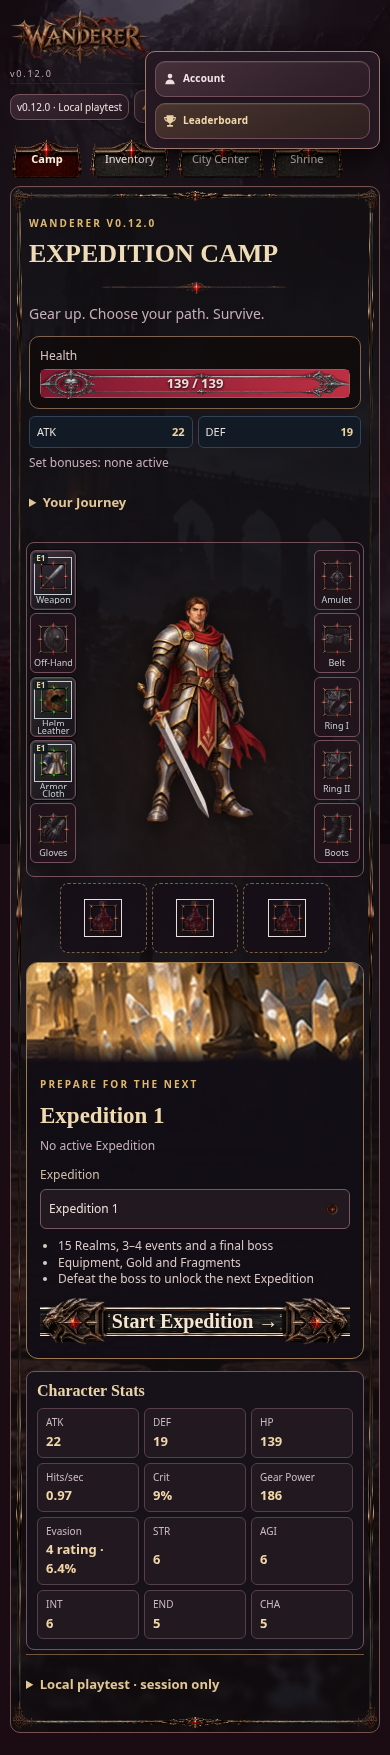
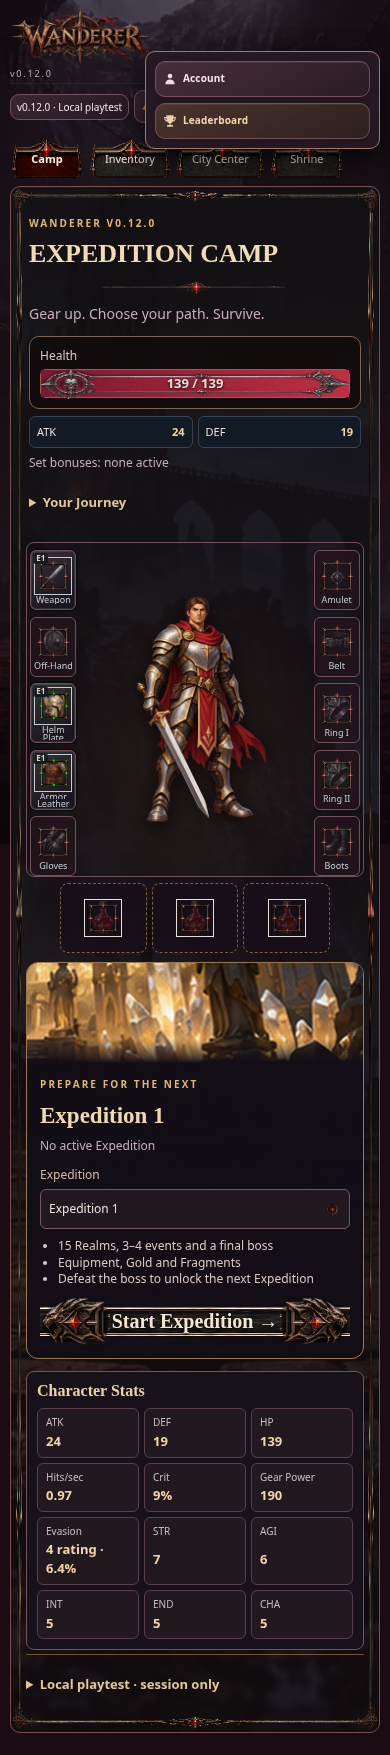
docs(ui): finalize UI.5 audit and slot fix

Changed region(s): [[0.8, 0.3385, 0.9231, 0.4923], [0.0615, 0.3385, 0.1846, 0.4923]]

diff --git a/online/v012-phase1.css b/online/v012-phase1.css
@@ -244,15 +244,15 @@
 .phase3IntegratedPreview :is(.phase3CampGrid,.phase3PreparationLayout,.phase3BagInventory,.equipmentLayout) .equipmentLoadout .paper .model{position:absolute;inset:2% 18% 2%;width:64%;height:96%;object-fit:contain;object-position:center;mask-image:none;opacity:1}
 .phase3IntegratedPreview :is(.phase3CampGrid,.phase3PreparationLayout,.phase3BagInventory,.equipmentLayout) .equipmentLoadout .paper .slotTile{position:absolute;width:72px;height:82px;left:auto;right:auto}
 .phase3IntegratedPreview :is(.phase3CampGrid,.phase3PreparationLayout,.phase3BagInventory,.equipmentLayout) .equipmentLoadout .paper .slotTile[data-slot="weapon"]{left:1%!important;right:auto!important;top:2%!important}
-.phase3IntegratedPreview :is(.phase3CampGrid,.phase3PreparationLayout,.phase3BagInventory,.equipmentLayout) .equipmentLoadout .paper .slotTile[data-slot="offhand"]{left:1%!important;right:auto!important;top:21%!important}
-.phase3IntegratedPreview :is(.phase3CampGrid,.phase3PreparationLayout,.phase3BagInventory,.equipmentLayout) .equipmentLoadout .paper .slotTile[data-slot="helm"]{left:1%!important;right:auto!important;top:40%!important}
-.phase3IntegratedPreview :is(.phase3CampGrid,.phase3PreparationLayout,.phase3BagInventory,.equipmentLayout) .equipmentLoadout .paper .slotTile[data-slot="armor"]{left:1%!important;right:auto!important;top:59%!important}
-.phase3IntegratedPreview :is(.phase3CampGrid,.phase3PreparationLayout,.phase3BagInventory,.equipmentLayout) .equipmentLoadout .paper .slotTile[data-slot="gloves"]{left:1%!important;right:auto!important;top:78%!important}
+.phase3IntegratedPreview :is(.phase3CampGrid,.phase3PreparationLayout,.phase3BagInventory,.equipmentLayout) .equipmentLoadout .paper .slotTile[data-slot="offhand"]{left:1%!important;right:auto!important;top:22%!important}
+.phase3IntegratedPreview :is(.phase3CampGrid,.phase3PreparationLayout,.phase3BagInventory,.equipmentLayout) .equipmentLoadout .paper .slotTile[data-slot="helm"]{left:1%!important;right:auto!important;top:42%!important}
+.phase3IntegratedPreview :is(.phase3CampGrid,.phase3PreparationLayout,.phase3BagInventory,.equipmentLayout) .equipmentLoadout .paper .slotTile[data-slot="armor"]{left:1%!important;right:auto!important;top:62%!important}
+.phase3IntegratedPreview :is(.phase3CampGrid,.phase3PreparationLayout,.phase3BagInventory,.equipmentLayout) .equipmentLoadout .paper .slotTile[data-slot="gloves"]{left:1%!important;right:auto!important;top:82%!important}
 .phase3IntegratedPreview :is(.phase3CampGrid,.phase3PreparationLayout,.phase3BagInventory,.equipmentLayout) .equipmentLoadout .paper .slotTile[data-slot="amulet"]{right:1%!important;left:auto!important;top:2%!important}
-.phase3IntegratedPreview :is(.phase3CampGrid,.phase3PreparationLayout,.phase3BagInventory,.equipmentLayout) .equipmentLoadout .paper .slotTile[data-slot="belt"]{right:1%!important;left:auto!important;top:21%!important}
-.phase3IntegratedPreview :is(.phase3CampGrid,.phase3PreparationLayout,.phase3BagInventory,.equipmentLayout) .equipmentLoadout .paper .slotTile[data-slot="ring1"]{right:1%!important;left:auto!important;top:40%!important}
-.phase3IntegratedPreview :is(.phase3CampGrid,.phase3PreparationLayout,.phase3BagInventory,.equipmentLayout) .equipmentLoadout .paper .slotTile[data-slot="ring2"]{right:1%!important;left:auto!important;top:59%!important}
-.phase3IntegratedPreview :is(.phase3CampGrid,.phase3PreparationLayout,.phase3BagInventory,.equipmentLayout) .equipmentLoadout .paper .slotTile[data-slot="boots"]{right:1%!important;left:auto!important;top:78%!important}
+.phase3IntegratedPreview :is(.phase3CampGrid,.phase3PreparationLayout,.phase3BagInventory,.equipmentLayout) .equipmentLoadout .paper .slotTile[data-slot="belt"]{right:1%!important;left:auto!important;top:22%!important}
+.phase3IntegratedPreview :is(.phase3CampGrid,.phase3PreparationLayout,.phase3BagInventory,.equipmentLayout) .equipmentLoadout .paper .slotTile[data-slot="ring1"]{right:1%!important;left:auto!important;top:42%!important}
+.phase3IntegratedPreview :is(.phase3CampGrid,.phase3PreparationLayout,.phase3BagInventory,.equipmentLayout) .equipmentLoadout .paper .slotTile[data-slot="ring2"]{right:1%!important;left:auto!important;top:62%!important}
+.phase3IntegratedPreview :is(.phase3CampGrid,.phase3PreparationLayout,.phase3BagInventory,.equipmentLayout) .equipmentLoadout .paper .slotTile[data-slot="boots"]{right:1%!important;left:auto!important;top:82%!important}
 .phase3Bag .phase3TreasureSymbol{display:block;font-size:26px;color:#dfba76;text-shadow:0 2px 8px #000}
 @media(max-width:600px){.phase3IntegratedPreview :is(.phase3CampGrid,.phase3PreparationLayout,.phase3BagInventory,.equipmentLayout) .equipmentLoadout .paper{height:500px;min-height:500px}.phase3IntegratedPreview :is(.phase3CampGrid,.phase3PreparationLayout,.phase3BagInventory,.equipmentLayout) .equipmentLoadout .paper .slotTile{width:56px;height:76px}}
 

diff --git a/docs/v012-ui-final-audit.md b/docs/v012-ui-final-audit.md
@@ -2,77 +2,66 @@
 
 Data: 22 outubro 2026
 Branch: `development`
-UI.4 auditada: `4f7b12d0bb8cf603517fe8f2c32d8b0530437cb3`
-Estado: **PARTIAL — integração em `main` não recomendada até à revalidação dos fluxos de persistência e do teste de geometria mobile.**
+Estado: **PARTIAL — regressões Chromium resolvidas; integração em `main` fica NO-GO até validar Safari nos fluxos UI.4e e restantes ecrãs.**
 
 ## Estado das fases
 
-| Fase | Estado observado |
-|---|---|
-| UI.0 — correções críticas | Publicada; regressão Chromium 6/6 PASS |
-| UI.1 — Camp e Inventory | Publicada; regressão Chromium 6/6 PASS |
-| UI.2 — Combat e Between Realms | Publicada; regressão Chromium 5/5 PASS |
-| UI.3 — City Center, affinities e Extraction | Publicada; regressão Chromium 6/6 PASS |
-| UI.4 — UI Kit e polimento | Publicada; regressão Chromium 6/6 PASS; moldura 9-slice carregada |
-| C.3 — treasures | Browser regression em 390px e 1280px PASS |
-
-## Auditoria visual
-
-As capturas recentes mostram Camp, Inventory, Merchant, Extraction, Combat, Between Realms, Blacksmith, Apothecary, affinities, passivos e eventos. Os testes UI.0–UI.4 cobrem 1440×900, 1280×720, 1024×768, 768×1024, 390×844 e 360×800, conforme a fase. Não houve scroll horizontal nos fluxos cobertos. A UI.2 isolada usa cinco larguras e ainda não foi repetida em 1440px.
-
-| Ecrã | Capturas atuais |
-|---|---|
-| Camp / Inventory | [Camp 1280](ui4-screenshots/camp-after-1280.png), [Camp 390](ui4-screenshots/camp-after-390.png), [Inventory 1280](ui4-screenshots/inventory-after-1280.png), [Inventory 390](ui4-screenshots/inventory-after-390.png) |
-| City Center | [Blacksmith 1280](ui5-screenshots/wanderer-ui3-blacksmith-1280.png), [Merchant 1280](ui4-screenshots/merchant-after-1280.png), [Merchant 390](ui4-screenshots/merchant-after-390.png), [Apothecary 390](ui5-screenshots/wanderer-ui3-apothecary-390.png) |
-| Shrine / affinities | [Affinities 1280](ui5-screenshots/wanderer-ui3-affinities-1280.png), [Affinities 390](ui5-screenshots/wanderer-ui3-affinities-390.png) |
-| Combat / Between Realms | [Combat 1280](ui5-screenshots/wanderer-ui2-combat-1280.png), [Combat 390](ui5-screenshots/wanderer-ui2-combat-390.png), [Between 1280](ui5-screenshots/wanderer-ui2-between-1280.png), [Between 390](ui5-screenshots/wanderer-ui2-between-390.png) |
-| Passivos / eventos | [Passivos 390](ui5-screenshots/passives-390.png), [Evento 1280](ui5-screenshots/events-1280.png), [Evento 390](ui5-screenshots/events-390.png) |
-| Extraction | [Extraction 1280](ui4-screenshots/extraction-after-1280.png), [Extraction 390](ui4-screenshots/extraction-after-390.png) |
-
-As capturas foram feitas com Chromium e estado local sintético. Algumas capturas mobile incluem o menu de conta aberto pelo fixture; ele não bloqueou as verificações de layout, mas essas imagens não representam uma composição de menu fechado.
-
-## Funcionalidade e testes
-
-| Verificação | Resultado |
-|---|---|
-| Regressões browser UI.0, UI.1, UI.2, UI.3, UI.4 | PASS: 6/6, 6/6, 5/5, 6/6, 6/6 |
-| C.3 treasures: imagem, Stash, Sell All, resumo | PASS: 390px e 1280px |
-| Merchant: 4 ofertas/categoria, alternância sem stock novo, Compare, Buy, Restock | PASS em UI.3 browser regression |
-| Blacksmith Craft / Apothecary Buy e Reroll / afinidades Blood e Magic / extração e Return to Camp | PASS em regressões UI.3 |
-| Save unit tests e migração/serialização | PASS na suíte unitária |
-| `npm test` com rede permitida | 24/27 PASS; três falhas em harnesses DOM descritas abaixo |
-| Browser Save/Load | PARTIAL: `v012-save-browser.cjs` termina em `choice` em vez de `finished` após 200 passos; `v0120-persistence-browser.cjs` excede timeout ao aguardar a segunda vitória sintética |
-| Browser de equipamento | FAIL em 390px: as caixas de slots vizinhos cruzam-se por cerca de 0,375px vertical; em 1280px o teste não foi alcançado nesta execução |
-| Browser de eventos | FAIL no teste legado: espera capacidade 6, mas a Bag atual tem 12; com a expectativa atualizada, o harness pára em `choice` no Realm 2 |
-| Browser `v012-phase3` | FAIL: timeout à espera de `#phase5ExitResult` na corrida sintética |
-| Safari / WebKit | **Pendente**: WebKit do Playwright não está instalado neste ambiente Linux |
-
-Falhas da suíte Node (harness, sem evidência de regressão visual):
-
-- `v012-complete-flow.test.cjs`: `window is not defined` durante `markAllAsSeen` → `renderStash`.
-- `v012-phase-c3-treasures.test.cjs`: `arena.before is not a function` ao renderizar o combate simulado.
-- `v0120-equipment.test.cjs`: `window is not defined` no caminho de salvamento após `salvage`.
-
-O teste `private-preview.test.mjs` falhou quando executado sem permissão de loopback e passou quando repetido com rede local permitida. O teste de eventos existente espera a capacidade antiga da Bag; a capacidade atual de 12 é requisito do produto.
-
-## Diferenças face à especificação
-
-- A tab **Shrine** existente continua a ser o altar de Runas. A escolha inicial de affinity é apresentada após Start Expedition, onde o fluxo atual a cria; não foi criada uma segunda seleção.
-- O City Center mantém placeholders/silhuetas de NPC porque não há artwork de NPC aprovado nos assets disponíveis.
-- O Blacksmith usa os painéis e âncoras Forge/Reinforcement da UI.3; os dois blocos permanecem no mesmo documento.
-- As capturas antigas não cobrem todos os estados de modal em cada viewport. A inspeção visual completa em Safari não foi possível.
-
-## Problemas por prioridade
-
-| Prioridade | Problema | Impacto |
+| Fase | Estado | Evidência |
 |---|---|---|
-| P0 | Nenhum problema crítico de UI confirmado nesta auditoria | — |
-| P1 | Persistência em browser não ficou demonstrada pelos harnesses sintéticos; os fluxos de Save/Load falham por stalls/timeouts | Revalidar com fixture atualizado antes de integração em `main` |
-| P2 | Teste de geometria reporta interseções de cerca de 0,375px entre slots verticais no Equipment mobile | Não bloqueia interação visível, mas convém ajustar e repetir o teste |
-| P2 | Harness de eventos usa expectativa Bag 6 e não conclui o ciclo no Realm 2 com capacidade 12 | Atualizar harness; as regras/eventos unitários passam |
-| P2 | Três testes unitários dependem de `window`/`Element.before` sem DOM completo | Corrigir mocks ou executar em ambiente DOM/browser |
-| P2 | Safari não foi validado; artwork de NPC continua ausente | Validar em Mac e integrar asset aprovado quando existir |
+| UI.0–UI.3 | PASS anterior | Regressões e capturas de cada fase; sem novas falhas reproduzidas nesta auditoria. |
+| UI.4 | PASS Chromium anterior | UI Kit e regressões da fase aprovadas; sem falhas novas. |
+| UI.4d | PASS | Chromium UI.4d passou. O utilizador informa que validou UI.4d manualmente em Safari; registado como validação manual do utilizador, não como teste executado por esta auditoria. |
+| UI.4e | PASS Chromium; Safari pendente | Frames Common–Legendary, slots e poções, compra, uso e persistência passaram nos viewports suportados. |
+| C.3 | PASS | Browser C.3 passou em 390 e 1280 px; os seis treasures renderizam e Sell All preserva o total. |
+
+## Resultados por área
+
+| Área | Resultado | Observações |
+|---|---|---|
+| Camp, Equipment e Inventory | **PASS** | Sem colisão de slots em 360, 390, 768, 1280 e 1440 px; dez slots de equipamento e três slots de poções. |
+| Frames de raridade e poções | **PASS Chromium** | Cinco raridades, frames quadrados, slots vazios/parciais/completos, seleção, remoção, consumo, compra no Apothecary e save/reload. |
+| City Center / Merchant | **PASS** | Weapons, Armor e Accessories filtram o stock real; quatro ofertas por categoria; alternância, Compare, Buy e restock mantidos. |
+| Forge / Apothecary | **PASS** | Craft, compra e integração do stock de poções com o Stash passaram nos fluxos browser/unitários. |
+| Expedition / Between Realms / Bag | **PASS** | Ciclos completos, eventos, drafts, slots de equipamento, loot, troca de equipamento, retorno do item deslocado ao Bag e uso de poção passaram. |
+| Extraction / Save / Load | **PASS** | Round-trip e restauro de estado, extração, morte, vitória, Rune de boss, bloqueio de escrita concorrente, save corrompido e quota foram testados com armazenamento sintético isolado. |
+| Safari | **PENDENTE PARCIAL** | UI.4d foi validada manualmente pelo utilizador. UI.4e e os restantes fluxos não foram testados em Safari/WebKit neste ambiente. Não se declara Safari PASS. |
+
+### Testes executados
+
+- **PASS** — `tests/v0120-equipment-browser.cjs`: equipamento e City Center em 360, 390, 768, 1280 e 1440 px; nenhuma interseção geométrica entre slots.
+- **PASS** — `tests/v012-ui4d-browser.cjs`: quatro ofertas por categoria, alternância repetida, Compare/Buy, retorno ao Camp, reload e colisão de validation slot.
+- **PASS** — `tests/v012-ui4e-browser.cjs`: cinco raridades, slots de poção vazios/parciais/completos, compra, consumo e persistência em 360, 390, 768, 1280 e 1440 px.
+- **PASS** — `tests/v012-complete-browser.cjs`: ciclo Expedition em 390 e 1280 px, eventos, poções, preparação, combate, vitória/Rune e retorno.
+- **PASS** — `tests/v012-events-browser.cjs`: 15 Realms, quatro eventos, 14 escolhas de passive, descarte de loot e conclusão em 390 e 1280 px; capacidade Bag validada como 12.
+- **PASS** — `tests/v012-save-browser.cjs`: migração sintética, morte, abandono, vitória e Rune em 390/1280 px; escrita concorrente, corrupt save, quota e proteção de sentinelas locais.
+- **PASS** — `tests/v0120-persistence-browser.cjs`: checkpoint/reload, recompensas sem duplicação, extração, morte e boss Rune.
+- **PASS** — `tests/v012-phase3-browser.cjs` e `tests/v012-phase-c3-treasures-browser.cjs`: equipamento, loot, poção, tesouros, Stash e Sell All.
+- **PASS** — testes unitários direcionados: 7/7 ficheiros, incluindo eventos, poções, equipamentos, saves, persistência e C.3.
+
+Não foram executadas simulações de combate/balanceamento nem suítes completas. Os testes browser usam Chromium e fixtures locais sintéticas; não abrem contas nem escrevem em saves reais.
+
+## Falhas reproduzidas, causa e correção
+
+1. **Equipment mobile (regressão visual, P2):** em 390 px as caixas de slots vizinhos cruzavam-se por 0,375 px por causa da distância de 19% entre filas face à altura renderizada. As filas foram espaçadas em incrementos de 20%; a geometria foi repetida nos cinco viewports acima e passou. Nenhum slot ou mecânica foi alterado.
+2. **Mocks DOM obsoletos (testes, sem regressão de produto):** o harness inerte não disponibilizava `window` e `Element.before`. O mock agora expõe `window` e `before()` sem-op. Os testes de fluxo, equipamento e treasures passaram.
+3. **Harnesses de fluxo obsoletos (testes, sem regressão de produto):** os fixtures esperavam estado antigo após Realm clear, botões antigos, markup antigo de evento, stock Merchant único, chave de save anterior, passive inicial gratuito e comportamento de equipamento diferente do contrato atual. Foram atualizados para refletir os controlos/estado atuais: `EXIT REALM`, declínio como ação separada, categorias Merchant, chave de validação versionada, passives ganhos após vitória e equipamento atualmente equipado protegido na morte. Os verificadores de produto não foram enfraquecidos.
+
+## Pendências e diferenças da especificação
+
+- **P2 — Safari:** não há Safari nem Playwright WebKit disponível no ambiente Linux. Validar UI.4e, responsividade e os fluxos restantes num Safari real antes de integração. O estado manual da UI.4d é informação fornecida pelo utilizador e não cobre as restantes fases.
+- **P2 — arte de NPC:** o City Center ainda usa o placeholder documentado, pois não há artwork aprovado de NPC no projeto.
+- Os testes das seis fases anteriores não foram todos repetidos em cada viewport; esta auditoria reutilizou os relatórios existentes e executou novamente os testes direcionados às pendências. Não se repetiram testes de balanceamento.
+
+## Capturas atuais
+
+Chromium, estado local sintético:
+
+- [Camp mobile 390 px](ui4e-screenshots/camp-390.png)
+- [Camp desktop 1280 px](ui4e-screenshots/camp-1280.png)
+- [Equipment/Inventory mobile 390 px](ui4e-screenshots/inventory-390.png)
+- [Equipment/Inventory desktop 1280 px](ui4e-screenshots/inventory-1280.png)
+- Capturas anteriores de [Combat](ui5-screenshots/wanderer-ui2-combat-390.png), [Between Realms](ui5-screenshots/wanderer-ui2-between-390.png), [Merchant](ui4-screenshots/merchant-after-390.png), [Extraction](ui4-screenshots/extraction-after-390.png) e [eventos](ui5-screenshots/events-390.png).
 
 ## Prontidão para `main`
 
-**PARTIAL.** Regressões visuais e interações principais passam em Chromium. Recomendo revalidar Save/Load e a geometria dos slots em browser e executar Safari antes do merge. Nenhuma alteração foi feita em `main`, Firebase, saves reais ou deploys.
+**NO-GO por agora.** Os problemas Chromium reproduzidos foram resolvidos e os testes dirigidos passam. Falta validação manual Safari para UI.4e e restantes fluxos. Nenhuma alteração foi feita em `main`, Firebase, saves reais ou deploys.
